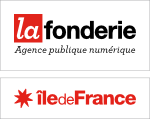
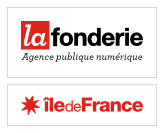
some visual improvements were brought

diff --git a/app/css/main.middle-zone.less b/app/css/main.middle-zone.less
@@ -61,6 +61,8 @@
                     width: 21px;
                     height: 21px;
                     display: inline-block;
+                    
+                   
                 }
                 
                 .icon-zoom-out {
@@ -69,6 +71,17 @@
                     height: 21px;
                     display: inline-block;
                 }
+                
+                 &:hover {
+                    background-color: white;
+                    border-color: #ccc;
+                    .icon-zoom-in {
+                        background: url(../images/zoom/zoom-in-active.png) 50% 50% no-repeat;
+                    }
+                    .icon-zoom-out {
+                        background: url(../images/zoom/zoom-out-active.png) 50% 50% no-repeat;
+                    }
+                 }
             }
         }
 
@@ -85,14 +98,55 @@
                     position: absolute;
                     white-space: nowrap;
                     border-radius: 0px;
-                    padding: 0.5em;
+                    padding: 0.2em 0.2em 0.2em 0.5em;
                     font-size: 1.1em;
                     line-height: 1.1em;
+                    height: @button-height - 4;
+                    
+                    .criteria-reminder-title {
+                        color: @light-gray;
+                        vertical-align: middle;
+                    }
+                    
+                    .remove {
+                        display: inline-block;
+                        width: 29px;
+                        height: 15px;
+                        background-image: url(../images/cross-1.png);
+                        background-repeat: no-repeat;
+                        background-position: 50% 50%;
+                        vertical-align: middle;
+                    }
+                    
+                    .bar {
+                        display: inline;
+                        height: 100%;
+                        width: 1px;
+                        border: 1px #eee solid;
+                    }
+                    
                 }
-                &.search-query { }
-                &.search-tags { }
-                &.search-categories { }
-                &.search-zones { }
+                &.search-query { 
+                    .list-group-item {
+                        padding-top: 0.4em;
+                        .query-label {
+                            font-weight: bold;
+                            padding-right: 0.3em;
+                        }
+                    }
+                
+                }
+                &.search-tags { 
+                    .list-group-item {
+                        padding-top: 0.4em;
+                        .tag {
+                            font-weight: bold;
+                            padding-right: 0.3em;
+                        }
+                    }
+                }
+                &.search-categories {.category-label { padding-right: 0.3em; } }
+                &.search-zones { .zone-label { padding-right: 0.3em; } }
             }
         }
     }

diff --git a/app/js/views/LeftToolbar.jsx b/app/js/views/LeftToolbar.jsx
@@ -44,8 +44,10 @@ module.exports = React.createClass({
         return (
             <ul className="list-group search-query">
                 <li className="list-group-item">
-                    {this._getLabel('toolbar.left.label.query')}
+                    <span className="criteria-reminder-title">{this._getLabel('toolbar.left.label.query')}</span>
                     <SearchInfoQueryView app={app} />
+                    <span className="bar"></span>
+                    <span className="remove"></span>
                 </li>
             </ul>
         );
@@ -58,8 +60,10 @@ module.exports = React.createClass({
         return (
             <ul className="list-group search-tags">
                 <li className="list-group-item">
-                    {this._getLabel('toolbar.left.label.tags')}
+                    <span className="criteria-reminder-title">{this._getLabel('toolbar.left.label.tags')}</span>
                     <SearchTagsView app={app}/>
+                    <span className="bar"></span>
+                    <span className="remove"></span>
                 </li>
             </ul>
         );
@@ -72,9 +76,11 @@ module.exports = React.createClass({
         return (
             <ul className="list-group search-categories">
                 <li className="list-group-item">
-                    {this._getLabel('toolbar.left.label.categories')}
+                    <span className="criteria-reminder-title">{this._getLabel('toolbar.left.label.categories')}</span>
                     <SearchInfoCategoriesView app={app}/>
-               </li>
+                    <span className="bar"></span>
+                    <span className="remove"></span>
+                </li>
             </ul>
         );
     },
@@ -86,8 +92,10 @@ module.exports = React.createClass({
         return (
             <ul className="list-group search-zones">
                 <li className="list-group-item">
-                    {this._getLabel('toolbar.left.label.zone')}
+                    <span className="criteria-reminder-title">{this._getLabel('toolbar.left.label.zone')}</span>
                     <SearchInfoZoneView app={app}/>
+                    <span className="bar"></span>
+                    <span className="remove"></span>
                 </li>
             </ul>
         );
@@ -103,9 +111,9 @@ module.exports = React.createClass({
                 </div>
                 <div className="info-blocks">
                     {this._renderSearchQueryInfo()}
-                    {this._renderTagsInfo()}
-                    {this._renderCategoriesInfo()}
                     {this._renderZonesInfo()}
+                    {this._renderCategoriesInfo()}
+                    {this._renderTagsInfo()}
                 </div>
             </div>
         );

diff --git a/app/css/main.less b/app/css/main.less
@@ -20,13 +20,14 @@
 
 @social-height: 25px;
 @top-height: 60px;
-@bottom-height: 20px;
+@bottom-height: 97px;
 @panel-margin: 10px;
 @bar-size : 40px;
 @nav-size : 30px;
 @red-main: #eb6564;
 @red-dark: #d40308;
 @gray: #7d7d7d;
+@light-gray: #999;
 
 @menu-item-size: 1.2em;
 @menu-icon-size: 1.2em;
@@ -49,10 +50,10 @@
     color: @gray;
     &.selected {
         background-color: white;
-        border: 1px solid #eee;
-        &::after {
-            content: " × ";
-        }
+        //border: 1px solid #eee;
+        //&::after {
+        //    content: " × ";
+        //}
     }
 }
 
@@ -73,7 +74,12 @@
     &.none::before { content : ''; }
 }
 .tags { .tag { .text-size(@menu-item-size * 0.8); } }
-.tags-inline { .tag { .text-size(@menu-item-size-inline); } }
+.tags-inline { 
+    .tag { 
+        vertical-align: inherit;
+        font-size: 0.9em;
+    } 
+}
 .label-empty { background-color: silver; }
 .tags-delimiter {
     display: block;
@@ -93,9 +99,27 @@
     }
     .category-label {
     }
+    
+    &.selected {
+        font-size: 1.2em;
+    }
 }
-.categories { .category { .text-size(@menu-item-size); } }
-.categories-inline { .category { .text-size(@menu-item-size-inline); } }
+.categories { .category { 
+    .text-size(@menu-item-size);
+     } }
+.categories-inline { 
+    .category {
+        vertical-align: inherit;
+        .category-label {
+            font-weight: bold;
+            font-size: 0.9em;
+        }
+        
+        > .icon {
+            margin-right: 0.3em;
+        }
+    }
+}
 
 .zone {
     .closable-tag;
@@ -138,7 +162,22 @@
 
     } 
 }
-.zones-inline { .zone { .text-size(@menu-item-size-inline); } }
+.zones-inline { 
+    vertical-align: middle;
+    .zone { 
+        vertical-align: inherit;
+        .zone-label {
+            font-weight: bold;
+            font-size: 0.9em;
+        }
+        
+        > .icon {
+            margin-right: 0.3em;
+        }
+    } 
+    
+
+}
 
 .query {
     .closable-tag;

diff --git a/app/css/main.top-zone.less b/app/css/main.top-zone.less
@@ -136,6 +136,7 @@
                                         padding-left: 0px;
                                         color: #767676;
                                         font-size: 1.2em;
+                                        text-decoration: none;
                                         &:hover { background-color: #eee; text-decoration: none; }
                                         &.return {
                                             font-size: 1.4em;
@@ -153,9 +154,9 @@
                                             }                                            
                                         }
                                         .chevron-right {
-                                            width: 20px;
-                                            height: 20px;
-                                            background: url(../images/chevrons/right.png) 50% 50% no-repeat;
+                                            width: 25px;
+                                            height: 25px;
+                                            background: url(../images/chevrons/right.png) 90% 50% no-repeat;
                                             display: inline-block;
                                         }
                                         

diff --git a/app/js/models/res/Resource.Module.js b/app/js/models/res/Resource.Module.js
@@ -326,11 +326,8 @@ module.exports = Api.extend({}, ResourceUtils, {
             inverted = this._sortByName < 0;
         } else if (this._sortByDate !== 0) {
             getField = function(r) {
-                var sys = r.sys;
-                var changes = sys.updated || sys.created || {
-                    timestamp : new Date().getTime()
-                };
-                return changes.timestamp;
+                var changes = r.properties.updated || new Date().getTime();
+                return changes;
             }
             inverted = this._sortByDate < 0;
         }

diff --git a/app/js/views/BottomZoneView.jsx b/app/js/views/BottomZoneView.jsx
@@ -6,7 +6,8 @@ module.exports = React.createClass({
     render : function() {
         var app = this.props.app;
         return (
-            <div className={this.props.className}>Bottom zone</div>
+            <div className={this.props.className}>
+            </div>
         );
     }
 });

diff --git a/app/css/index.macros.less b/app/css/index.macros.less
@@ -5,7 +5,7 @@
     bottom: @bottom;
     left: @left;
 }
-.box-shadow(@arguments:0px 0px 3px rgba(0, 0, 0, 0.3)) {
+.box-shadow(@arguments:0px 0px 2px rgba(0, 0, 0, 0.2)) {
     -webkit-box-shadow: @arguments;
     -moz-box-shadow: @arguments;
     box-shadow: @arguments;

diff --git a/app/css/main.bottom-zone.less b/app/css/main.bottom-zone.less
@@ -1,4 +1,9 @@
 .bottom-zone {
-    .fit(auto, 0px, 0px, 0px);
+    .fit(auto, 0px, 10px, 10px);
     height: @bottom-height;
+    width: 120px;
+    background-image: url(../images/la-fonderie-1.png);
+    background-repeat: no-repeat;
+    .box-shadow();
+    
 }

diff --git a/app/css/main.leaflet.less b/app/css/main.leaflet.less
@@ -1,7 +1,7 @@
 .leaflet-popup {
     .leaflet-popup-content-wrapper {
         border-radius: 0;
-        box-shadow: 0px 0px 3px rgba(0, 0, 0, 0.3);
+        box-shadow: 0px 0px 2px rgba(0, 0, 0, 0.2);
     }
     
     .leaflet-popup-content {
